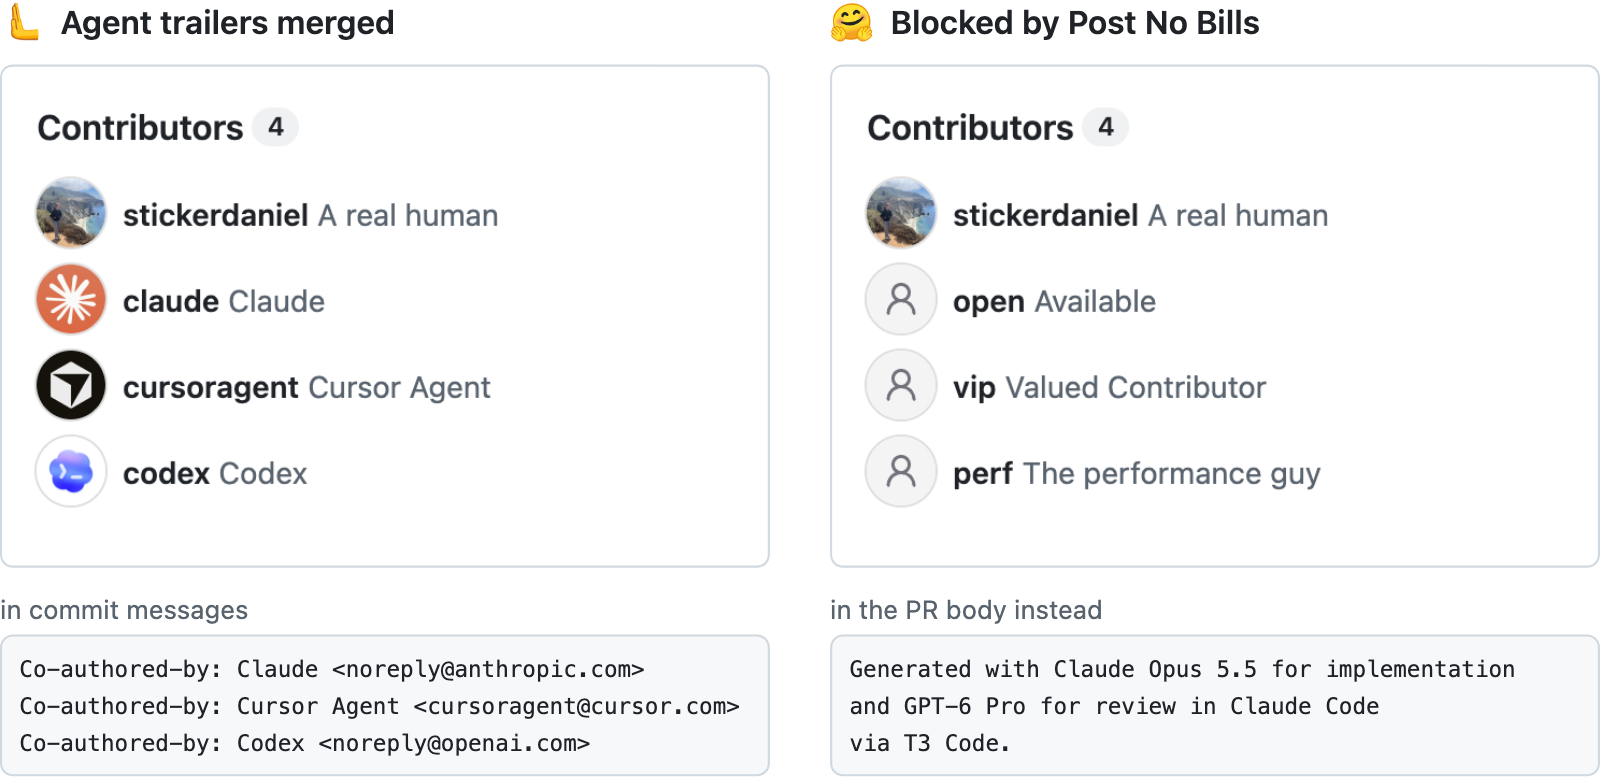
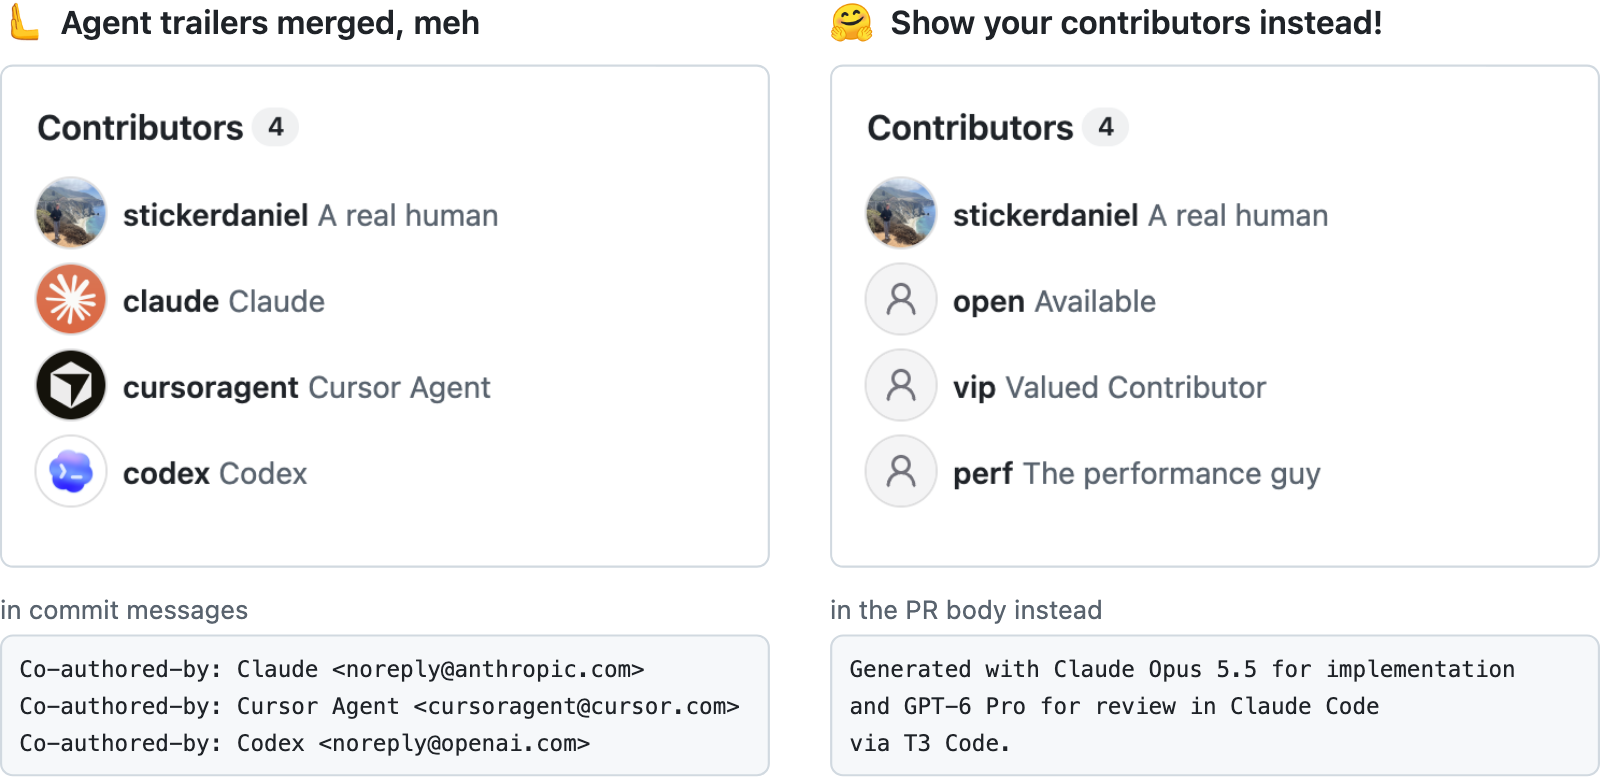
docs: Caption the two sides of the image

Changed region(s): [[0.5625, 0.0, 0.875, 0.0617], [0.25, 0.0, 0.3125, 0.0617]]

diff --git a/README.md b/README.md
@@ -9,7 +9,7 @@ Agents write the code, people sign it. Models are disclosed in the PR body.
 <p>
 <picture>
   <source media="(prefers-color-scheme: dark)" srcset="docs/hero-dark.png">
-  <img alt="Left, agent trailers merged: the Contributors list shows 4, stickerdaniel, claude, cursoragent and codex, after commit messages with Co-authored-by trailers for Claude, Cursor Agent and Codex. Right, blocked by Post No Bills: the list shows stickerdaniel, open, vip and perf, and the PR body ends with Generated with Claude Opus 5.5 for implementation and GPT-6 Pro for review in Claude Code via T3 Code." src="docs/hero-light.png" width="800">
+  <img alt="Left, agent trailers merged, meh: the Contributors list shows 4, stickerdaniel, claude, cursoragent and codex, after commit messages with Co-authored-by trailers for Claude, Cursor Agent and Codex. Right, show your contributors instead: the list shows stickerdaniel, open, vip and perf, and the PR body ends with Generated with Claude Opus 5.5 for implementation and GPT-6 Pro for review in Claude Code via T3 Code." src="docs/hero-light.png" width="800">
 </picture>
 </p>
 
